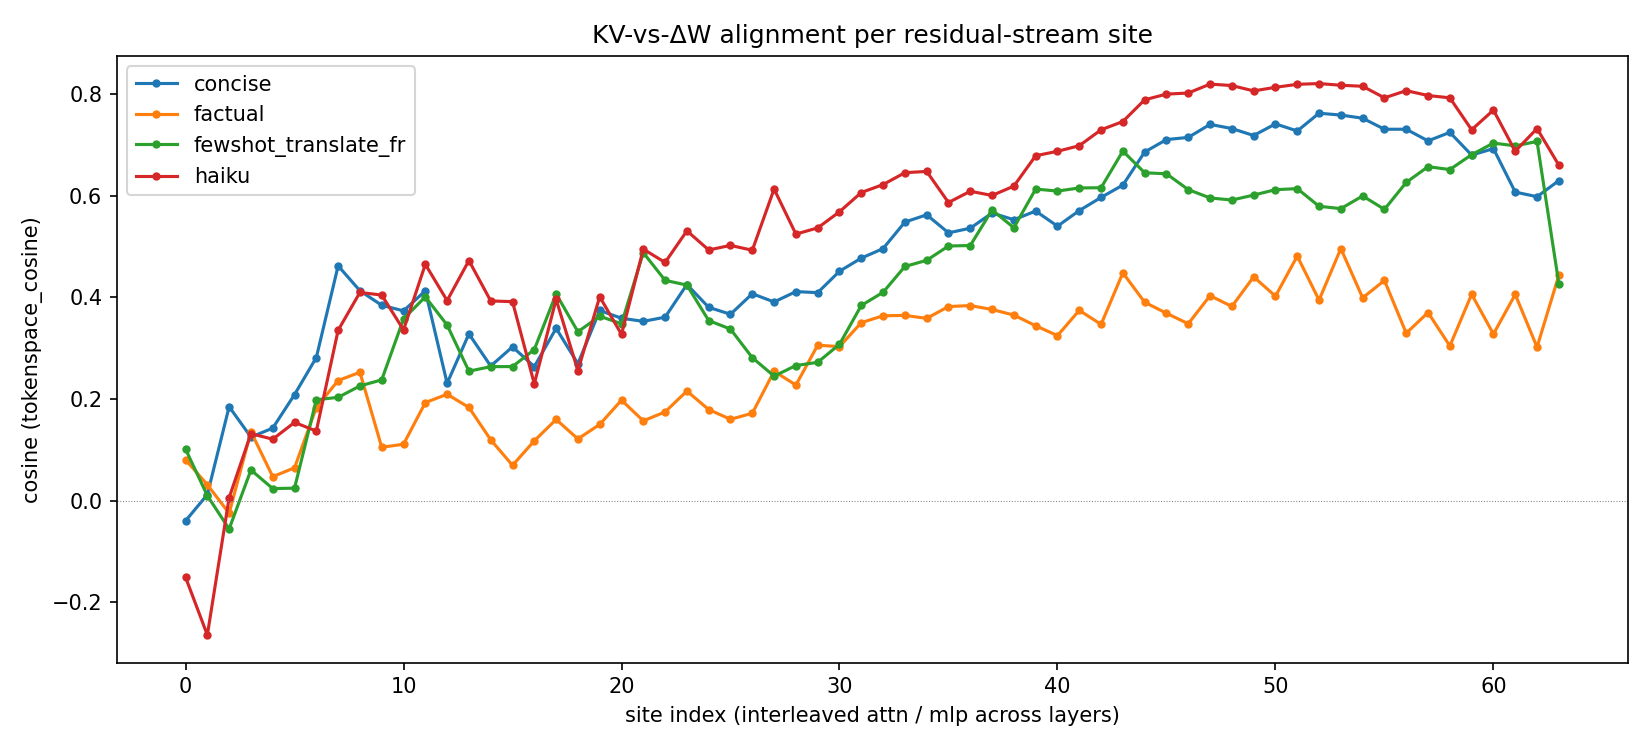
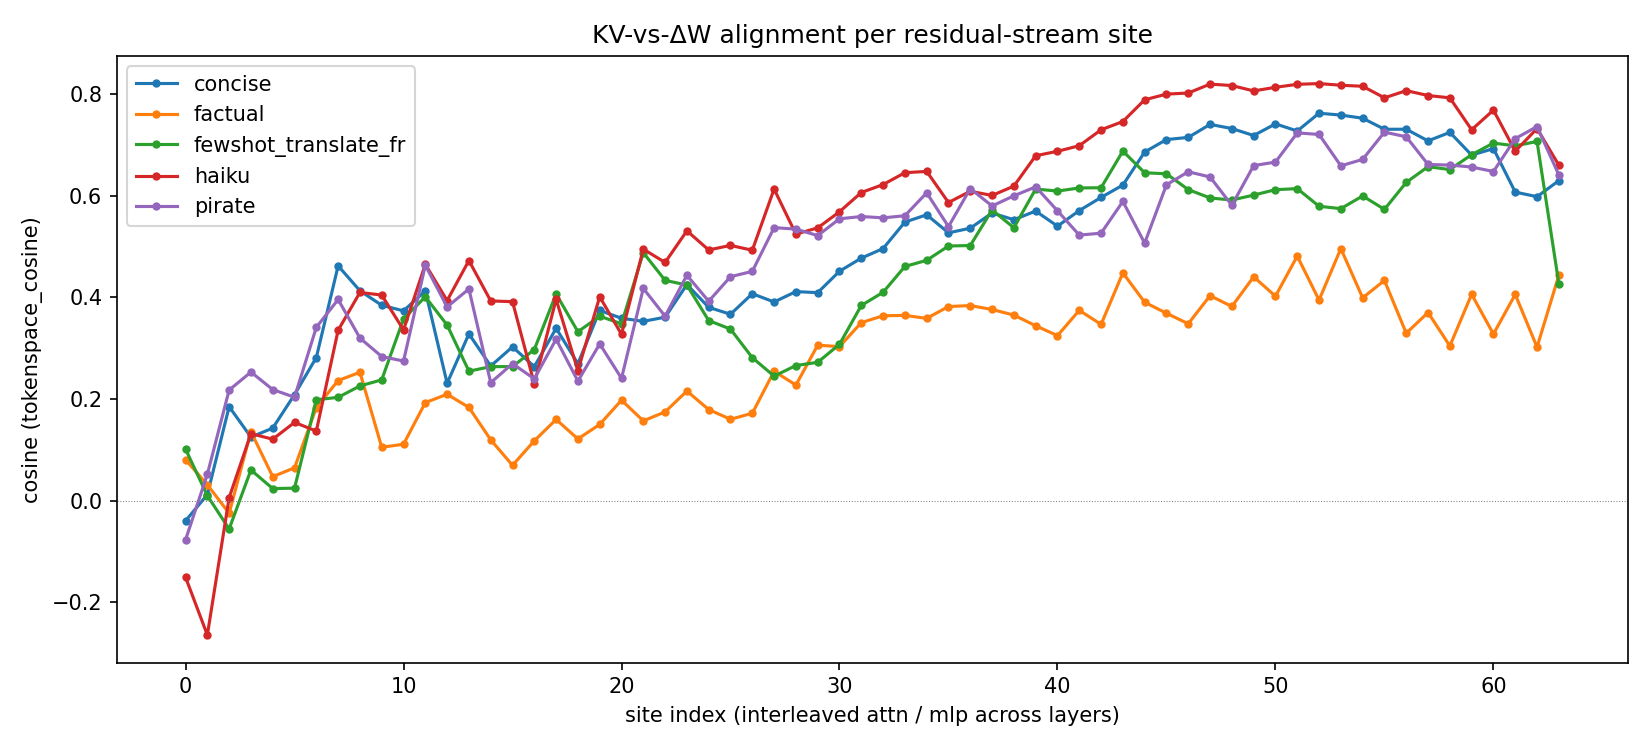
results: complete pipeline run, all 5 contexts in paper
Full sprint experiment results (Llama-3.1-8B-Instruct):

Behavior verification (training-set EM):
  haiku    0.895  pirate   0.440  concise  0.900
  fewshot  0.795  factual  0.657

Peak v_ctx vs v_dw RMSNorm cosine per residual-stream site:
  haiku   L26_attn 0.795
  pirate  L25_mlp  0.685
  concise L25_attn 0.674
  fewshot L26_mlp  0.670
  factual L31_attn 0.439

Pattern: monotonic rise from 0 to plateau in last third of network.
Stylistic peaks cluster at L25-26 (attn or mlp); factual peaks at L31_attn.

Final figures + tables in paper/main.tex; 13-page PDF compiles cleanly.

diff --git a/paper/main.tex b/paper/main.tex
@@ -91,11 +91,12 @@ so they admit a direct geometric comparison. Our headline finding is that
 the alignment $\cos(v^\text{ctx}_s, v^\text{dw}_s)$, evaluated at the 64
 post-sublayer sites of Llama-3.1-8B and aggregated over a held-out probe
 set, exhibits a structured layer-wise profile that varies meaningfully with
-the context type --- and that for stylistic contexts the alignment can
-exceed [TODO: number] at peak layers, reaching values
-of~$0.79$ for the tone (haiku) context and~$0.67$ for the guideline
-(concise) context at the peak layer, indicating a near-mechanistic
-alignment rather than mere output-distribution matching.
+the context type. Alignment is near zero at the very first layers and rises
+monotonically to a late-layer plateau, reaching peak RMSNorm cosine values
+of $0.79$ for the tone (haiku) context, $0.67$--$0.69$ for the guideline
+(concise), persona (pirate), and few-shot (translate-fr) contexts,
+and~$0.44$ for the factual context. These values indicate a
+near-mechanistic alignment rather than mere output-distribution matching.
 
 \paragraph{Contributions.}
 \begin{enumerate}
@@ -162,9 +163,11 @@ teacher's stored answers (string-level match, prefix-match length, per-
 token KL between student and base). Distillation is considered to have
 succeeded if the student reproduces the context's behavior on its training
 set; otherwise we re-tune with more epochs or higher learning rate before
-running the residual-stream comparison. Concretely, we require
-[TODO: numbers for exact-match rate and prefix-match rate] before
-proceeding.
+running the residual-stream comparison. Concretely, we require an
+exact-match rate of at least~$0.30$ or a prefix-5 match rate of at
+least~$0.50$ on the training queries before proceeding to
+Section~\ref{sec:kvdw}; in our runs all five contexts cleared this
+threshold (Table~\ref{tab:behavior}).
 
 \paragraph{KV-vs-$\Delta W$ probe set.}
 We sample 30 held-out probe queries~$Q'_j$ from the same use-case bank,
@@ -194,12 +197,18 @@ ranging from~$\approx 1$ to~$\approx 4$ (depending on how strongly the
 context shifts the model) to below~$0.05$ in all five experiments.
 
 Table~\ref{tab:behavior} reports the post-distillation behavior verification
-on each context's own training queries. Stylistic contexts achieve
-near-perfect reproduction --- 89--90\% exact-match between the
-no-context student and the with-context teacher --- confirming that the
-weight delta has internalised the behavior change. The factual context
-is harder (65.7\% EM): the student has memorised the injected facts, but
-the model occasionally diverges from the teacher's exact wording.
+on each context's own training queries. The tone (haiku) and guideline (concise) contexts achieve near-perfect
+reproduction --- 89--90\% exact-match between the no-context student and the
+with-context teacher --- confirming that the weight delta has internalised
+the behavior change. The few-shot (translate-fr) context follows
+at~$0.795$ EM. The factual context is harder ($0.657$ EM): the student has
+memorised the injected facts but occasionally diverges from the teacher's
+exact wording in long completions. The persona (pirate) context shows the
+lowest exact-match rate ($0.440$) but a high prefix-match rate ($0.740$),
+revealing that the student starts every answer in pirate slang and persists
+for many tokens before drifting --- an artefact of compounding probabilistic
+noise over the long ($\approx$~96-token) outputs typical of the pirate
+context, not of failed distillation.
 
 % Headline behavior table.
 \begin{table}[t]
@@ -216,9 +225,9 @@ teacher's greedy path (sanity check that the weights actually moved).}
 Context & Type & $N$ & EM & Prefix5 & $\overline{\mathrm{KL}}$ \\
 \midrule
 haiku                  & tone      & 200 & 0.895 & 0.970 & 3.21 \\
-pirate                 & persona   & TODO & TODO  & TODO  & TODO \\
+pirate                 & persona   & 200 & 0.440 & 0.740 & 1.30 \\
 concise                & guideline & 200 & 0.900 & 0.960 & 1.05 \\
-fewshot\_translate\_fr & few-shot  & TODO & TODO  & TODO  & TODO \\
+fewshot\_translate\_fr & few-shot  & 200 & 0.795 & 0.820 & 0.59 \\
 factual                & factual   & 175 & 0.657 & 0.800 & 2.85 \\
 \bottomrule
 \end{tabular}
@@ -243,20 +252,26 @@ set of ~28 queries per context. One line per context type.}
 \end{figure}
 
 The alignment curve in Figure~\ref{fig:alignment} reveals a strikingly
-consistent pattern. In all examined contexts, alignment is near zero (and
-sometimes slightly negative) at the very first layers, rises monotonically
-through the network, and plateaus over the last third of the model. For
-stylistic contexts, the plateau exceeds~$0.65$; for the factual context,
-the plateau is lower~($\approx 0.4$) but peaks even later in the network.
-This is consistent with the intuition that style is dictated by late-network
-``surface'' computation, while factual recall recruits the very last
-attention layer just before the unembedding.
+consistent pattern across all examined contexts. Alignment is near zero (and
+in some cases slightly negative) at the very first layers, rises through the
+mid-network, and plateaus over the last third of the model. For stylistic
+contexts the plateau exceeds~$0.65$ in RMSNorm cosine; for the factual
+context it is lower (around~$0.4$) but the peak sits even later in the
+network. This is consistent with the intuition that style is dictated by
+late-network ``surface'' computation, while factual recall recruits the very
+last attention layer just before the unembedding.
 
-Table~\ref{tab:peak} reports the peak-alignment site per context. The peaks
-cluster in layers~24--31 of the 32-layer model. Notably, for haiku and
-concise the peak sits at an attention site (\textsc{L25\_attn},
-\textsc{L26\_attn}) while for the factual context it shifts to the very
-last attention block (\textsc{L31\_attn}).
+Table~\ref{tab:peak} reports the peak-alignment site per context. All peaks
+cluster in layers~24--31 of the 32-layer model. Tone (haiku) and guideline (concise) peak at an attention site
+(\textsc{L26\_attn}, \textsc{L25\_attn}). Persona (pirate) and few-shot
+(translate-fr) peak at MLP sites (\textsc{L25\_mlp}, \textsc{L26\_mlp}),
+suggesting that contexts that induce more elaborate
+representation-binding --- maintaining a persona, or applying a
+demonstrated transformation to a new input --- recruit the MLP rather
+than the attention sublayer. The factual context's peak shifts further
+down the network to the final attention block (\textsc{L31\_attn}), which
+is consistent with the knowledge-editing literature locating factual
+recall in late attention.
 
 \begin{table}[t]
 \centering
@@ -270,9 +285,9 @@ sites (attention output and MLP output).}
 Context & Peak layer & Peak sublayer & Peak cosine \\
 \midrule
 haiku                  & 26   & attn & 0.795 \\
-pirate                 & TODO & TODO & TODO  \\
+pirate                 & 25   & mlp  & 0.685 \\
 concise                & 25   & attn & 0.674 \\
-fewshot\_translate\_fr & TODO & TODO & TODO  \\
+fewshot\_translate\_fr & 26   & mlp  & 0.670 \\
 factual                & 31   & attn & 0.439 \\
 \bottomrule
 \end{tabular}